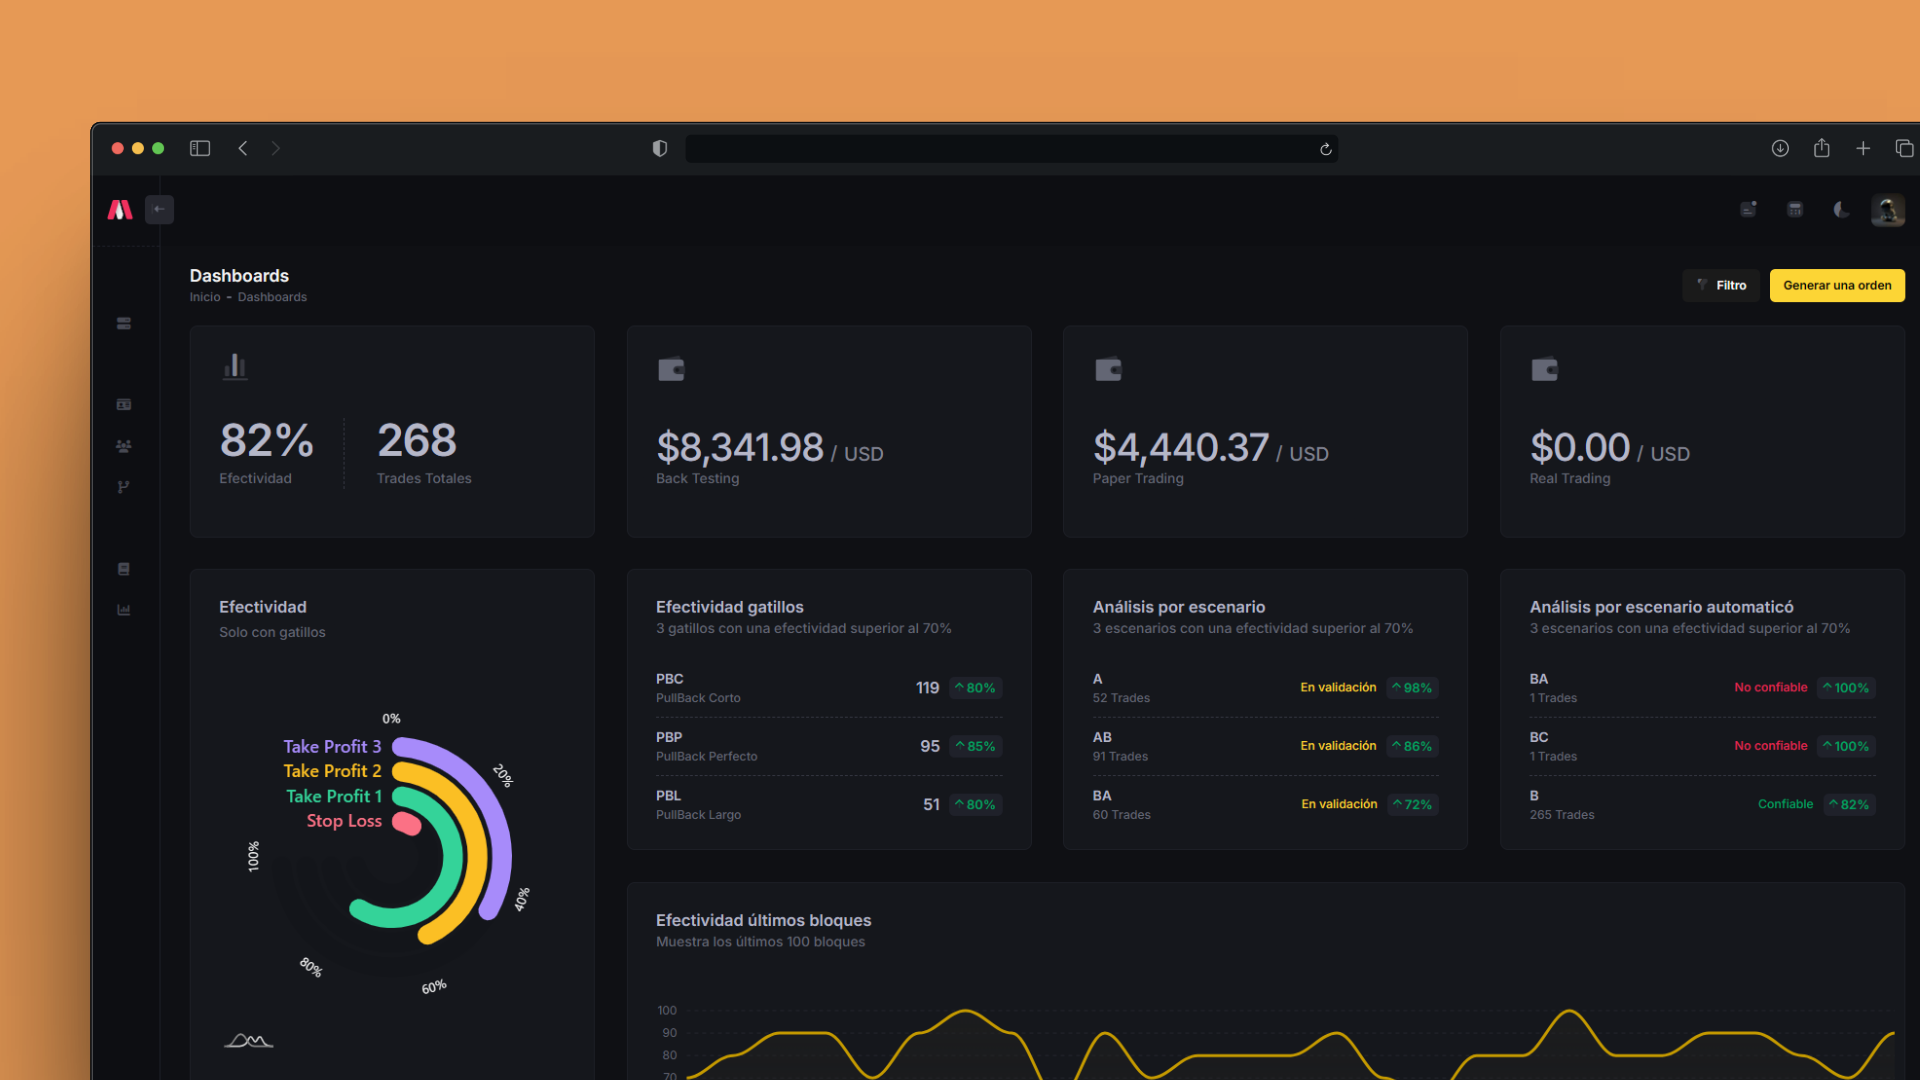
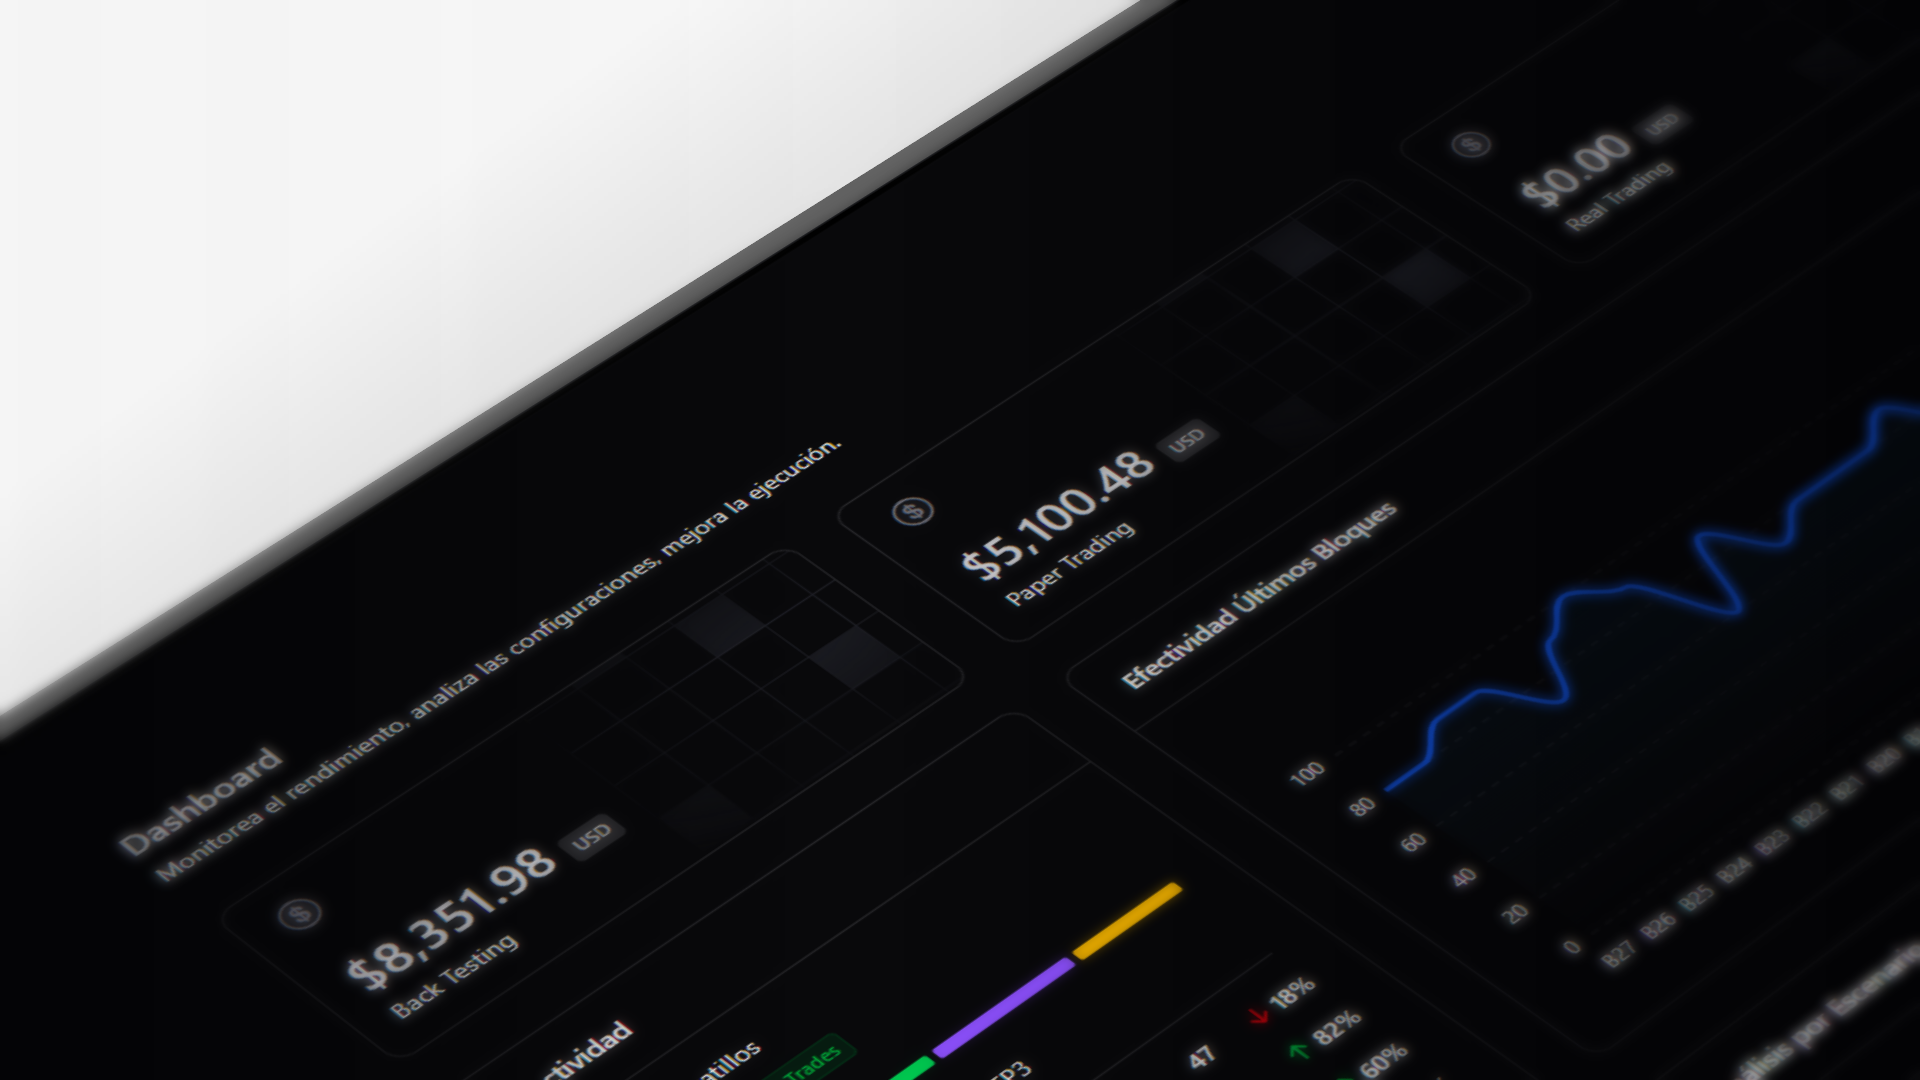
docs(readme): reescribir README con estructura moderna, badges .NET 10 y secciones nuevas
Correcciones: badges actualizados a .NET 10, puertos corregidos (7221/5080),
stack tecnológico con Metronic 9, Tailwind CSS, DataTables 2.x y Flatpickr.

Secciones nuevas:
- Tabla de contenidos con enlaces de navegación
- Base de datos: enfoque database-first, DbContexts, protecciÃ³n de Custom.cs
- Seguridad: rate limiting, cookies, 2FA, anti-enumeraciÃ³n, secretos externalizados

Mejoras:
- Estructura del proyecto en Ã¡rbol con comentarios por carpeta
- GuÃa de inicio rÃ¡pido expandida con dotnet tool restore y config/secrets.json
- Diagrama de arquitectura simplificado con tabla de capas
- Admoniciones de GitHub ([!IMPORTANT], [!WARNING]) en puntos crÃticos
- Contenido unificado en espaÃ±ol

diff --git a/README.md b/README.md
@@ -1,207 +1,207 @@
+<div align="center">
+
 ![TradingBookApp](./PortalTrading.png)
 
 # TradingBook
 
-*Plataforma web para análisis de performance en trading cripto / Web platform for crypto trading performance analysis*
-
-[![.NET](https://img.shields.io/badge/.NET-8.0-512BD4?style=flat-square&logo=dotnet)](https://dotnet.microsoft.com/)
-[![ASP.NET Core](https://img.shields.io/badge/ASP.NET%20Core%20MVC-8.0-512BD4?style=flat-square&logo=dotnet)](https://learn.microsoft.com/aspnet/core/)
-[![Entity Framework Core](https://img.shields.io/badge/Entity%20Framework%20Core-8.0-512BD4?style=flat-square&logo=dotnet)](https://learn.microsoft.com/ef/core/)
+[![.NET](https://img.shields.io/badge/.NET-10.0-512BD4?style=flat-square&logo=dotnet)](https://dotnet.microsoft.com/)
+[![ASP.NET Core](https://img.shields.io/badge/ASP.NET%20Core%20MVC-10.0-512BD4?style=flat-square&logo=dotnet)](https://learn.microsoft.com/aspnet/core/)
+[![Entity Framework Core](https://img.shields.io/badge/EF%20Core-10.0-512BD4?style=flat-square&logo=dotnet)](https://learn.microsoft.com/ef/core/)
 [![SQL Server](https://img.shields.io/badge/SQL%20Server-CC2927?style=flat-square&logo=microsoftsqlserver)](https://www.microsoft.com/sql-server)
+[![Tailwind CSS](https://img.shields.io/badge/Tailwind%20CSS-3-06B6D4?style=flat-square&logo=tailwindcss)](https://tailwindcss.com/)
+[![Metronic](https://img.shields.io/badge/Metronic-9-1B84FF?style=flat-square)](https://keenthemes.com/metronic/)
 [![Clean Architecture](https://img.shields.io/badge/Clean%20Architecture-0078D4?style=flat-square)]()
 
-TradingBook es una plataforma web creada para centralizar el registro y análisis de operaciones de trading en criptomonedas. Su objetivo es transformar la ejecución operativa en información accionable, permitiendo evaluar setups, medir efectividad, detectar patrones y mejorar la toma de decisiones a partir de datos reales.
+*Plataforma web para análisis de performance en trading de criptomonedas*
 
-> [!TIP]
-> The project was developed with **.NET 8** and **Clean Architecture**, with a focus on scalability, maintainability, and product evolution.
+</div>
 
-## Features / Características
+[Características](#características) • [Arquitectura](#arquitectura) • [Stack tecnológico](#stack-tecnológico) • [Inicio rápido](#inicio-rápido) • [Estructura del proyecto](#estructura-del-proyecto) • [Base de datos](#base-de-datos)
 
-- **Trading Score Engine**: Evalúa operaciones usando ubicación, tendencia, confirmación y zonas pivote 
-- **Análisis Multidimensional**: Estadísticas por trigger, escenario, figura, dirección, marco temporal y día 
-- **Dashboard Interactivo**: Visualizaciones con Chart.js para métricas clave 
-- **Gestión de Cuentas**: Múltiples cuentas con tracking de balance y transacciones 
-- **Seguridad Robusta**: Autenticación con 2FA y hashing de contraseñas 
-- **Registro de Actividad**: Logging completo de operaciones 
+---
 
-## Architecture / Arquitectura
+TradingBook es una plataforma web que centraliza el registro y análisis de operaciones de trading en criptomonedas. Su objetivo es transformar la ejecución operativa en información accionable: evaluar setups, medir efectividad, detectar patrones y mejorar la toma de decisiones a partir de datos reales.
+
+> [!NOTE]
+> El proyecto está construido con **.NET 10**, **Clean Architecture** y **Metronic Tailwind CSS**, con foco en escalabilidad, mantenibilidad y evolución continua del producto.
+
+## Características
+
+- **Trading Score Engine** — evalúa operaciones usando ubicación, tendencia, confirmación y zonas pivote.
+- **Análisis multidimensional** — estadísticas por trigger, escenario, figura, dirección, marco temporal y día de la semana.
+- **Dashboard interactivo** — visualizaciones con Chart.js para métricas clave y DataTables 2.x para exploración tabular.
+- **Gestión de cuentas** — múltiples cuentas con tracking de balance, depósitos y retiros.
+- **Autenticación robusta** — ASP.NET Core Identity con 2FA (código QR + authenticator), confirmación de email y recuperación de contraseña.
+- **Protección contra enumeración** — ForgotPassword redirige siempre a la página de confirmación sin revelar si el usuario existe.
+- **Rate limiting** — endpoints de cuenta protegidos con límite de 10 peticiones cada 5 segundos por IP.
+- **Cookies seguras** — política `CookieSecurePolicy.Always`, requiere HTTPS para flujos de autenticación.
+- **Credenciales externalizadas** — secretos en `config/secrets.json` (excluido de Git), plantilla de referencia en `config/secrets.template.json`.
+- **Registro de actividad** — logging completo de operaciones con trazabilidad por usuario.
+- **Módulos administrativos** — gestión de empleados, roles, usuarios, categorías, figuras, tipos de cuenta, temporalidades e instrumentos.
+
+## Arquitectura
+
+El proyecto sigue los principios de **Clean Architecture** con cuatro capas y dependencias unidireccionales:
 
 ```
-┌─────────────────────────────────────────────────────────────┐
-│                          Web                                │
-│              (ASP.NET Core MVC, Controllers,                │
-│               Views, wwwroot, Middleware)                   │
-└──────────────────────────┬──────────────────────────────────┘
-                           │
-┌──────────────────────────▼──────────────────────────────────┐
-│                     Application                             │
-│        (Services, DTOs, Interfaces, Models)                 │
-└──────────────────────────┬──────────────────────────────────┘
-                           │
-┌──────────────────────────▼──────────────────────────────────┐
-│                       Domain                                │
-│           (Entities, Enums, Constants)                       │
-└──────────────────────────┬──────────────────────────────────┘
-                           │
-┌──────────────────────────▼──────────────────────────────────┐
-│                   Infrastructure                            │
-│    (Persistence, Repositories, Email, Identity,            │
-│                   Logging, External Services)              │
-└─────────────────────────────────────────────────────────────┘
+Web ──────────────▶ Application ──────────────▶ Domain
+  │                       ▲
+  └──▶ Infrastructure ────┘
 ```
 
-## Project Structure / Estructura del Proyecto
+| Capa | Responsabilidad | Proyecto |
+|---|---|---|
+| **Web** | Controladores MVC, vistas Razor, middlewares, wwwroot | `Web/` |
+| **Application** | Servicios de negocio, DTOs, interfaces, modelos | `Application/` |
+| **Domain** | Entidades, enumeraciones, constantes (núcleo del negocio) | `Domain/` |
+| **Infrastructure** | Persistencia, repositorios, email, Identity, logging | `Infrastructure/` |
 
-### 1. Application
+El arranque ocurre en `Web/Program.cs` mediante tres métodos extensores que registran los servicios de cada capa: `AddApplicationServices()`, `AddInfrastructureServices()` y `AddWebServices()`.
 
-Contiene la lógica de aplicación y define las interfaces, DTOs y servicios necesarios para interactuar con otras capas.
+## Stack tecnológico
 
-- `DTOs/`
-   Objetos de transferencia de datos utilizados para encapsular y transportar datos entre capas. 
+| Componente | Tecnología |
+|---|---|
+| Framework | .NET 10.0 |
+| Web | ASP.NET Core MVC + Razor Pages |
+| ORM | Entity Framework Core 10.0 |
+| Base de datos | SQL Server |
+| UI Framework | Metronic 9 (Tailwind CSS) |
+| Tablas | DataTables 2.x |
+| Gráficos | Chart.js |
+| Fechas | Flatpickr |
+| Autenticación | ASP.NET Core Identity |
+| 2FA | QR Code (QRCoder) + Authenticator |
+| Email | MailKit (SMTP/Office 365) |
+| Arquitectura | Clean Architecture |
+| Localización | es-MX |
 
-- `Interfaces/`
-   Contratos que definen la lógica que deben implementar las clases concretas. 
+## Inicio rápido
 
-- `Models/`
-   Modelos que representan estructuras utilizadas en el contexto de la lógica de aplicación. 
+### Requisitos previos
 
-- `Resources/`
-   Archivos de recursos como cadenas localizadas o configuraciones específicas. 
+- [.NET 10 SDK](https://dotnet.microsoft.com/download/dotnet/10.0)
+- SQL Server (local o vía Docker)
+- Visual Studio 2022 o VS Code
 
-- `Services/`
-   Servicios de aplicación que implementan la lógica específica del negocio. 
+### Configuración
 
-- `DependencyInjection.cs`
-   Configuración para registrar los servicios de Application en el contenedor de dependencias. 
+1. Clona el repositorio.
+2. Crea `config/secrets.json` copiando la plantilla:
 
-- `GlobalUsings.cs`
-   Archivo para declarar los using globales que simplifican las referencias en esta capa. 
+   ```bash
+   cp config/secrets.template.json config/secrets.json
+   ```
 
----
+3. Rellena los valores reales en `config/secrets.json`: cadena de conexión y credenciales SMTP.
+   > [!IMPORTANT]
+   > `config/secrets.json` está excluido de Git. Nunca guardes credenciales reales en `appsettings.json` — ese archivo solo contiene placeholders `__CHANGE_ME__`.
 
-### 2. Domain
+4. Restaura las herramientas de EF Core:
 
-Representa el núcleo del negocio y contiene las entidades, valores constantes y enumeraciones. 
+   ```bash
+   cd Web
+   dotnet tool restore
+   ```
 
-- `Constants/`
-   Valores constantes que son utilizados en toda la aplicación.
-
-- `Entities/`
-   Clases que representan las entidades del dominio con sus propiedades y comportamientos. 
-
-- `Enums/`
-   Enumeraciones que representan conjuntos de valores predefinidos. 
-
-- `GlobalUsings.cs`
-   Archivo para declarar los using globales que simplifican las referencias en esta capa. 
-
----
-
-### 3. Infrastructure
-
-Proporciona implementaciones concretas para las interfaces definidas en `Application`. Incluye servicios para correo electrónico, identidad, logging, persistencia y más. Provides concrete implementations for the interfaces defined in `Application`. 
-
-- `Email/`
-   Lógica relacionada con el envío de correos electrónicos.
-
-- `Identity/`
-   Manejo de autenticación y autorización. 
-
-- `Logging/`
-   Configuración y servicios relacionados con el registro de eventos. 
-
-- `Persistence:`
-   - `Data/`
-     Contiene el `DbContext` para interactuar con la base de datos. 
-
-   - `Repositories/`
-     Implementaciones de repositorios para acceder a los datos. 
-
-- `DependencyInjection.cs`
-   Configuración para registrar los servicios de Infrastructure en el contenedor de dependencias. 
-
-- `GlobalUsings.cs`
-   Archivo para declarar los using globales que simplifican las referencias en esta capa. 
-
----
-
-### 4. Web
-
-Proyecto ASP.NET Core en .NET 8 que actúa como punto de entrada de la aplicación. Incluye controladores, middlewares, y configuraciones específicas para la interacción con los usuarios y servicios externos. 
-
-- `Pages/`
-   Contiene las Razor Pages que definen la UI y la lógica de presentación. 
-
-- `Controllers/`
-   Incluye controladores para endpoints adicionales, como APIs o acciones especializadas. 
-
-- `Views/`
-   Vistas compartidas y parciales, así como layouts reutilizables. 
-
-- `wwwroot/`
-   Archivos estáticos (CSS, JS, imágenes, plantillas). 
-
-- `Template/`
-   Recursos de plantillas, scripts personalizados y plugins. 
-
-- `Media/Logos/`
-   Almacena logotipos y recursos gráficos. 
-
----
-
-## General Considerations / Consideraciones Generales
-
-- La separación en capas asegura una alta cohesión dentro de cada capa y un bajo acoplamiento entre ellas.
-
-- `DependencyInjection.cs` en cada capa se utiliza para registrar sus servicios específicos en el contenedor de dependencias global de ASP.NET Core. 
-
-- `GlobalUsings.cs` simplifica la gestión de espacios de nombres en los archivos de cada capa. 
-
-- Esta estructura permite que el código sea modular, testeable y fácilmente extensible, facilitando la colaboración en equipos grandes y el mantenimiento a largo plazo. 
-
-## Tech Stack / Stack Tecnológico
-
-| Component | Technology |
-|-----------|------------|
-| Framework | .NET 8 |
-| Web | ASP.NET Core MVC |
-| ORM | Entity Framework Core |
-| Database | SQL Server |
-| Frontend | Bootstrap, JavaScript |
-| Charts | Chart.js |
-| Auth | ASP.NET Core Identity |
-| Architecture | Clean Architecture |
-
-## Quick Start / Inicio Rápido
-
-### Prerequisites / Requisitos
-
-- .NET 8 SDK
-- SQL Server (Local or Docker)
-- Visual Studio 2022 / VS Code
-
-### Configuration / Configuración
-
-1. Copia el archivo `appsettings.json` del repositorio.
-2. Rellena los valores necesarios, como la cadena de conexión y cuenta de correo. 
-3. Ejecuta las migraciones de Entity Framework Core si es necesario. 
-
-### Running / Ejecución
+### Ejecución
 
 ```bash
-cd Web
-dotnet restore
-dotnet build
-dotnet run
+# Desde la raíz del repositorio
+dotnet build "TradingBookApp.sln"
+dotnet run --project Web/Web.csproj --launch-profile https
 ```
 
-Accede a la aplicación en `https://localhost:5001` o `http://localhost:5000`. 
+Accede a la aplicación en `https://localhost:7221` o `http://localhost:5080`.
 
-## Resources / Recursos
+> [!NOTE]
+> Usa el perfil HTTPS para los flujos de autenticación — las cookies de sesión requieren conexión segura.
 
-- [.NET Documentation](https://learn.microsoft.com/dotnet/)
-- [ASP.NET Core](https://learn.microsoft.com/aspnet/core/)
+## Estructura del proyecto
+
+```
+TradingBookApp/
+├── Application/          # Lógica de aplicación
+│   ├── Common/           # Utilidades compartidas (QueryOptions)
+│   ├── DTOs/             # Objetos de transferencia de datos
+│   ├── Interfaces/       # Contratos de repositorios y servicios
+│   ├── Models/           # Modelos de resultado (Result<T>)
+│   ├── Resources/        # Cadenas localizadas (ErrorMessage, Message)
+│   ├── Services/         # Implementaciones de servicios de negocio
+│   ├── GlobalUsings.cs
+│   └── DependencyInjection.cs
+├── Domain/               # Núcleo del negocio
+│   ├── Constants/        # Valores constantes
+│   ├── Entities/         # Entidades del dominio
+│   └── Enums/            # Enumeraciones
+├── Infrastructure/       # Implementaciones concretas
+│   ├── Email/            # Envío de correos (MailKit)
+│   ├── Identity/         # Autenticación y autorización
+│   ├── Logging/          # Registro de actividad
+│   ├── Persistence/
+│   │   ├── Data/         # DbContext (ApplicationDbContext, LoggingDbContext)
+│   │   └── Repositories/ # Repositorios
+│   ├── Services/         # Servicios de infraestructura
+│   ├── GlobalUsings.cs
+│   └── DependencyInjection.cs
+├── Web/                  # Punto de entrada ASP.NET Core
+│   ├── Controllers/      # Controladores MVC (21 controladores)
+│   ├── Views/            # Vistas Razor organizadas por módulo
+│   ├── wwwroot/          # Assets estáticos (CSS, JS, imágenes)
+│   ├── Helpers/          # Tag Helpers y utilidades de vista
+│   ├── Models/           # ViewModels
+│   ├── Program.cs
+│   └── DependencyInjection.cs
+├── config/
+│   └── secrets.template.json  # Plantilla de configuración secreta
+├── specs/                # Especificaciones de migración y hardening
+├── TradingBookApp.sln
+├── CHANGELOG.md
+└── README.md
+```
+
+## Base de datos
+
+El proyecto usa un enfoque **database-first**: la base de datos SQL Server ya existe y `ApplicationDbContext` se generó mediante scaffolding.
+
+### Aspectos clave
+
+- Se registran dos contextos: `ApplicationDbContext` (negocio) y `LoggingDbContext` (auditoría), ambos contra `ConnectionStrings:DefaultConnection`.
+- No hay migraciones de EF Core en el repositorio. Las consultas analíticas usan stored procedures como `usp_GetOrdersDataTable` y vistas como `View_Orders`.
+- Los DTOs sin clave usados en queries `FromSqlRaw` deben registrarse en `ApplicationDbContext.Custom.cs`, el archivo que sobrevive a regeneraciones de scaffolding.
+
+### Comandos útiles
+
+```bash
+# Restaurar herramientas EF (desde Web/)
+dotnet tool restore
+
+# Generar scaffolding desde una base de datos existente
+dotnet ef dbcontext scaffold "ConnectionString" Microsoft.EntityFrameworkCore.SqlServer -o Models -f
+```
+
+> [!WARNING]
+> Si regeneras el scaffolding, `ApplicationDbContext.cs` se sobrescribe. El contenido protegido está en `ApplicationDbContext.Custom.cs` — no lo pierdas.
+
+## Seguridad
+
+| Mecanismo | Detalle |
+|---|---|
+| Rate limiting | 10 req / 5 s por IP en endpoints `Account` |
+| Cookies | `CookieSecurePolicy.Always` — solo sobre HTTPS |
+| 2FA | QR code + authenticator app |
+| Secretos | `config/secrets.json` excluido de Git |
+| Anti-enumeración | ForgotPassword no revela existencia de usuarios |
+| Conexiones | `Encrypt=true` en todas las cadenas de conexión |
+| Validación | `ModelState.IsValid` habilitado en todos los controladores |
+
+## Recursos
+
+- [Documentación de .NET](https://learn.microsoft.com/dotnet/)
+- [ASP.NET Core MVC](https://learn.microsoft.com/aspnet/core/mvc/)
 - [Entity Framework Core](https://learn.microsoft.com/ef/core/)
-- [Clean Architecture](https://learn.microsoft.com/azure/architecture/dotnet-apps/)
-- [Bootstrap](https://getbootstrap.com/)
+- [Clean Architecture en .NET](https://learn.microsoft.com/dotnet/architecture/modern-web-apps-azure/)
+- [Tailwind CSS](https://tailwindcss.com/docs)
+- [Metronic Tailwind](https://keenthemes.com/metronic/tailwind/)
 - [Chart.js](https://www.chartjs.org/)
+- [DataTables](https://datatables.net/)
